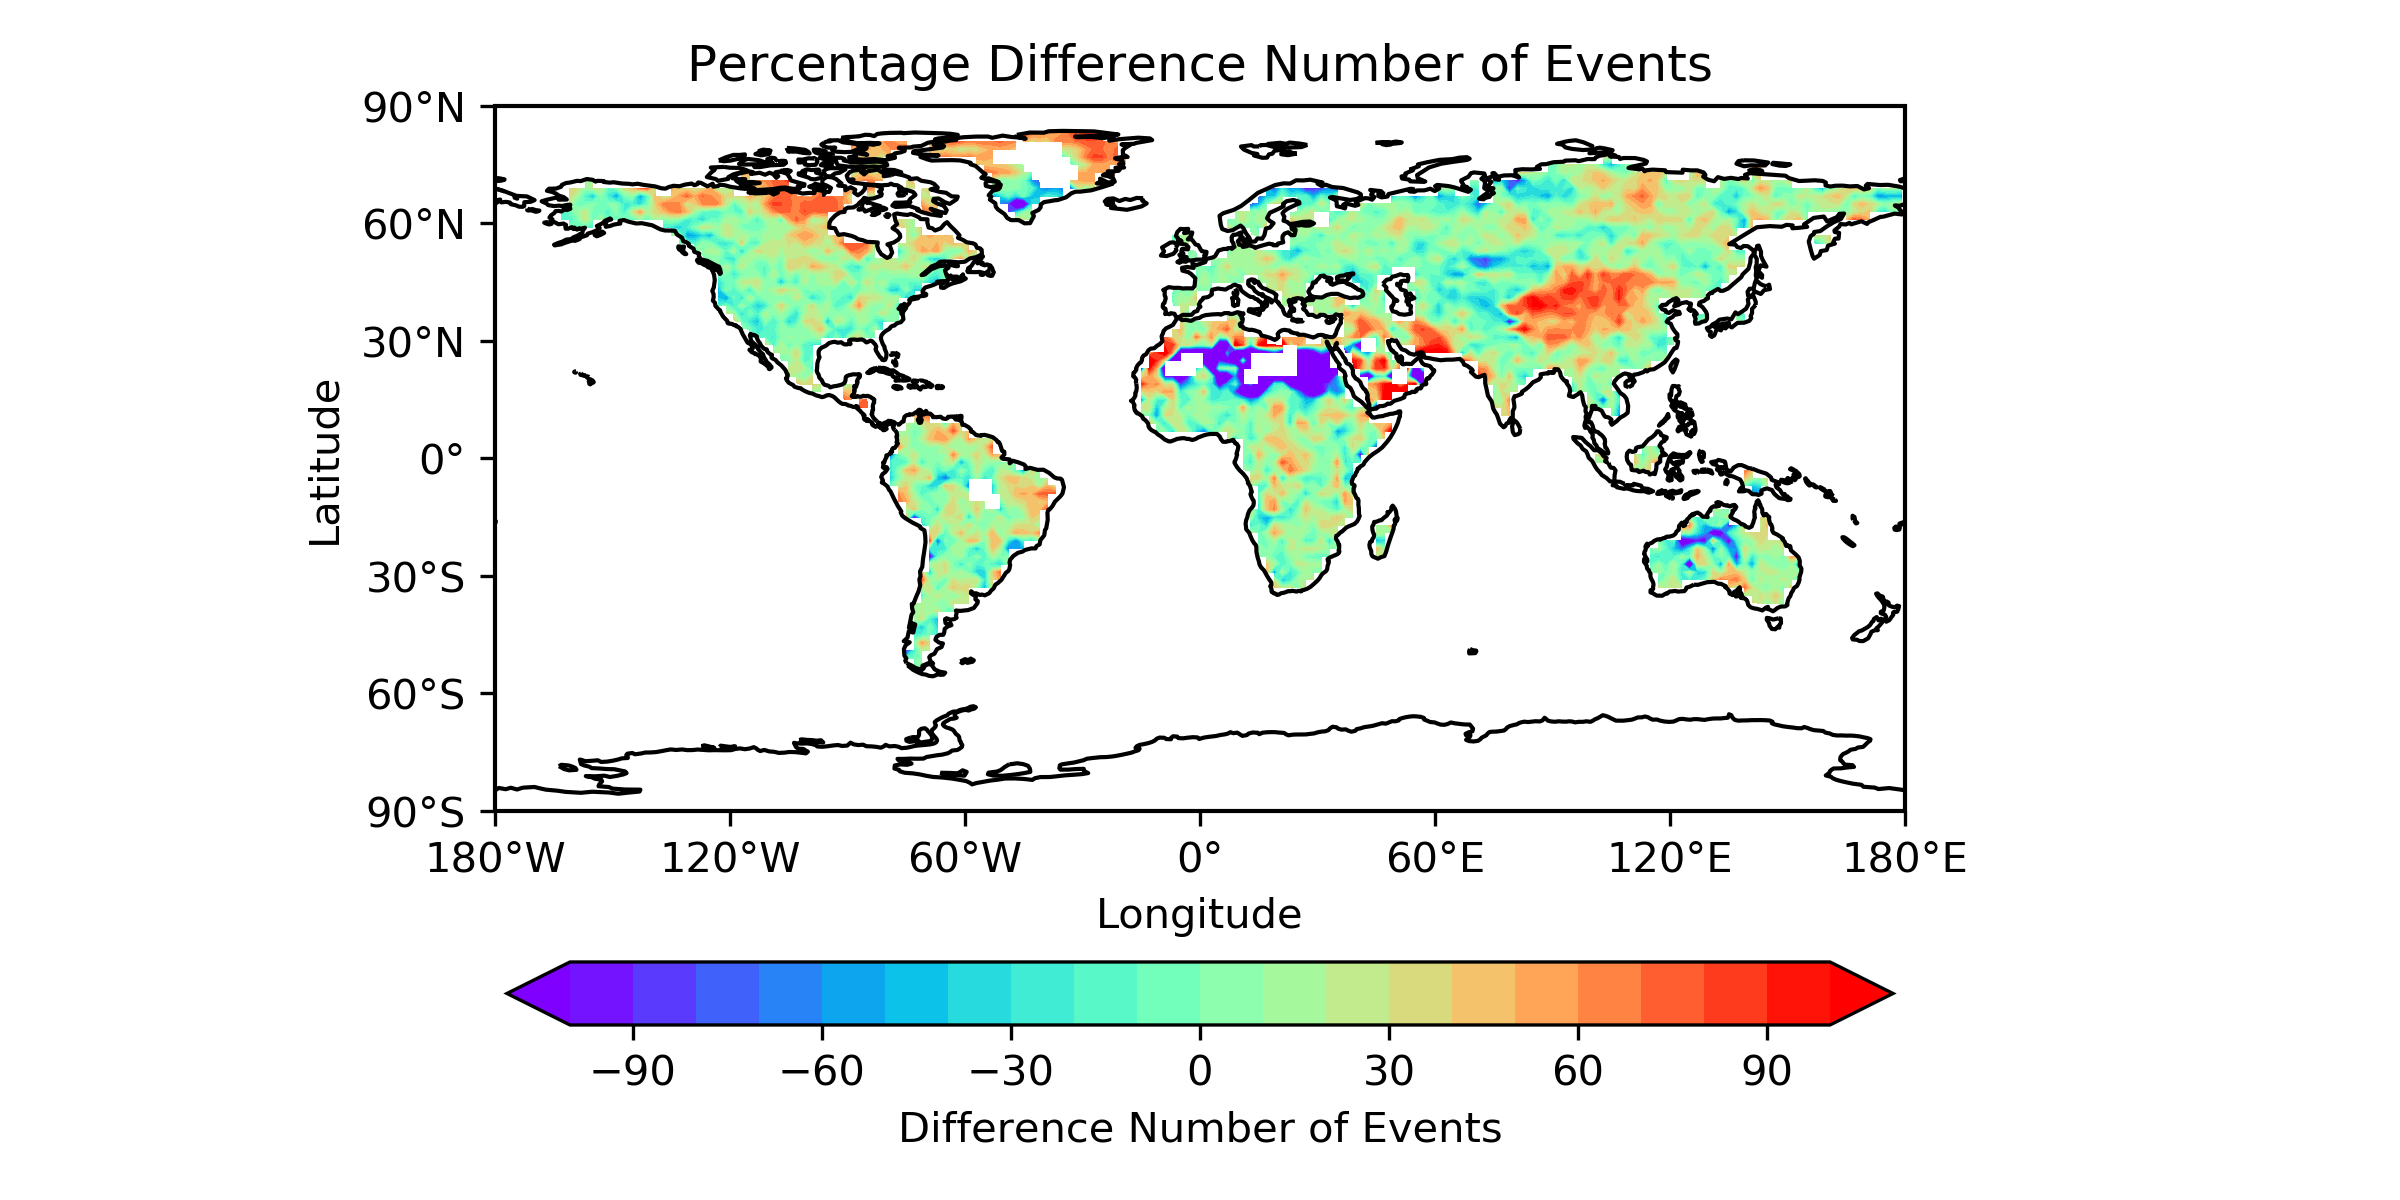
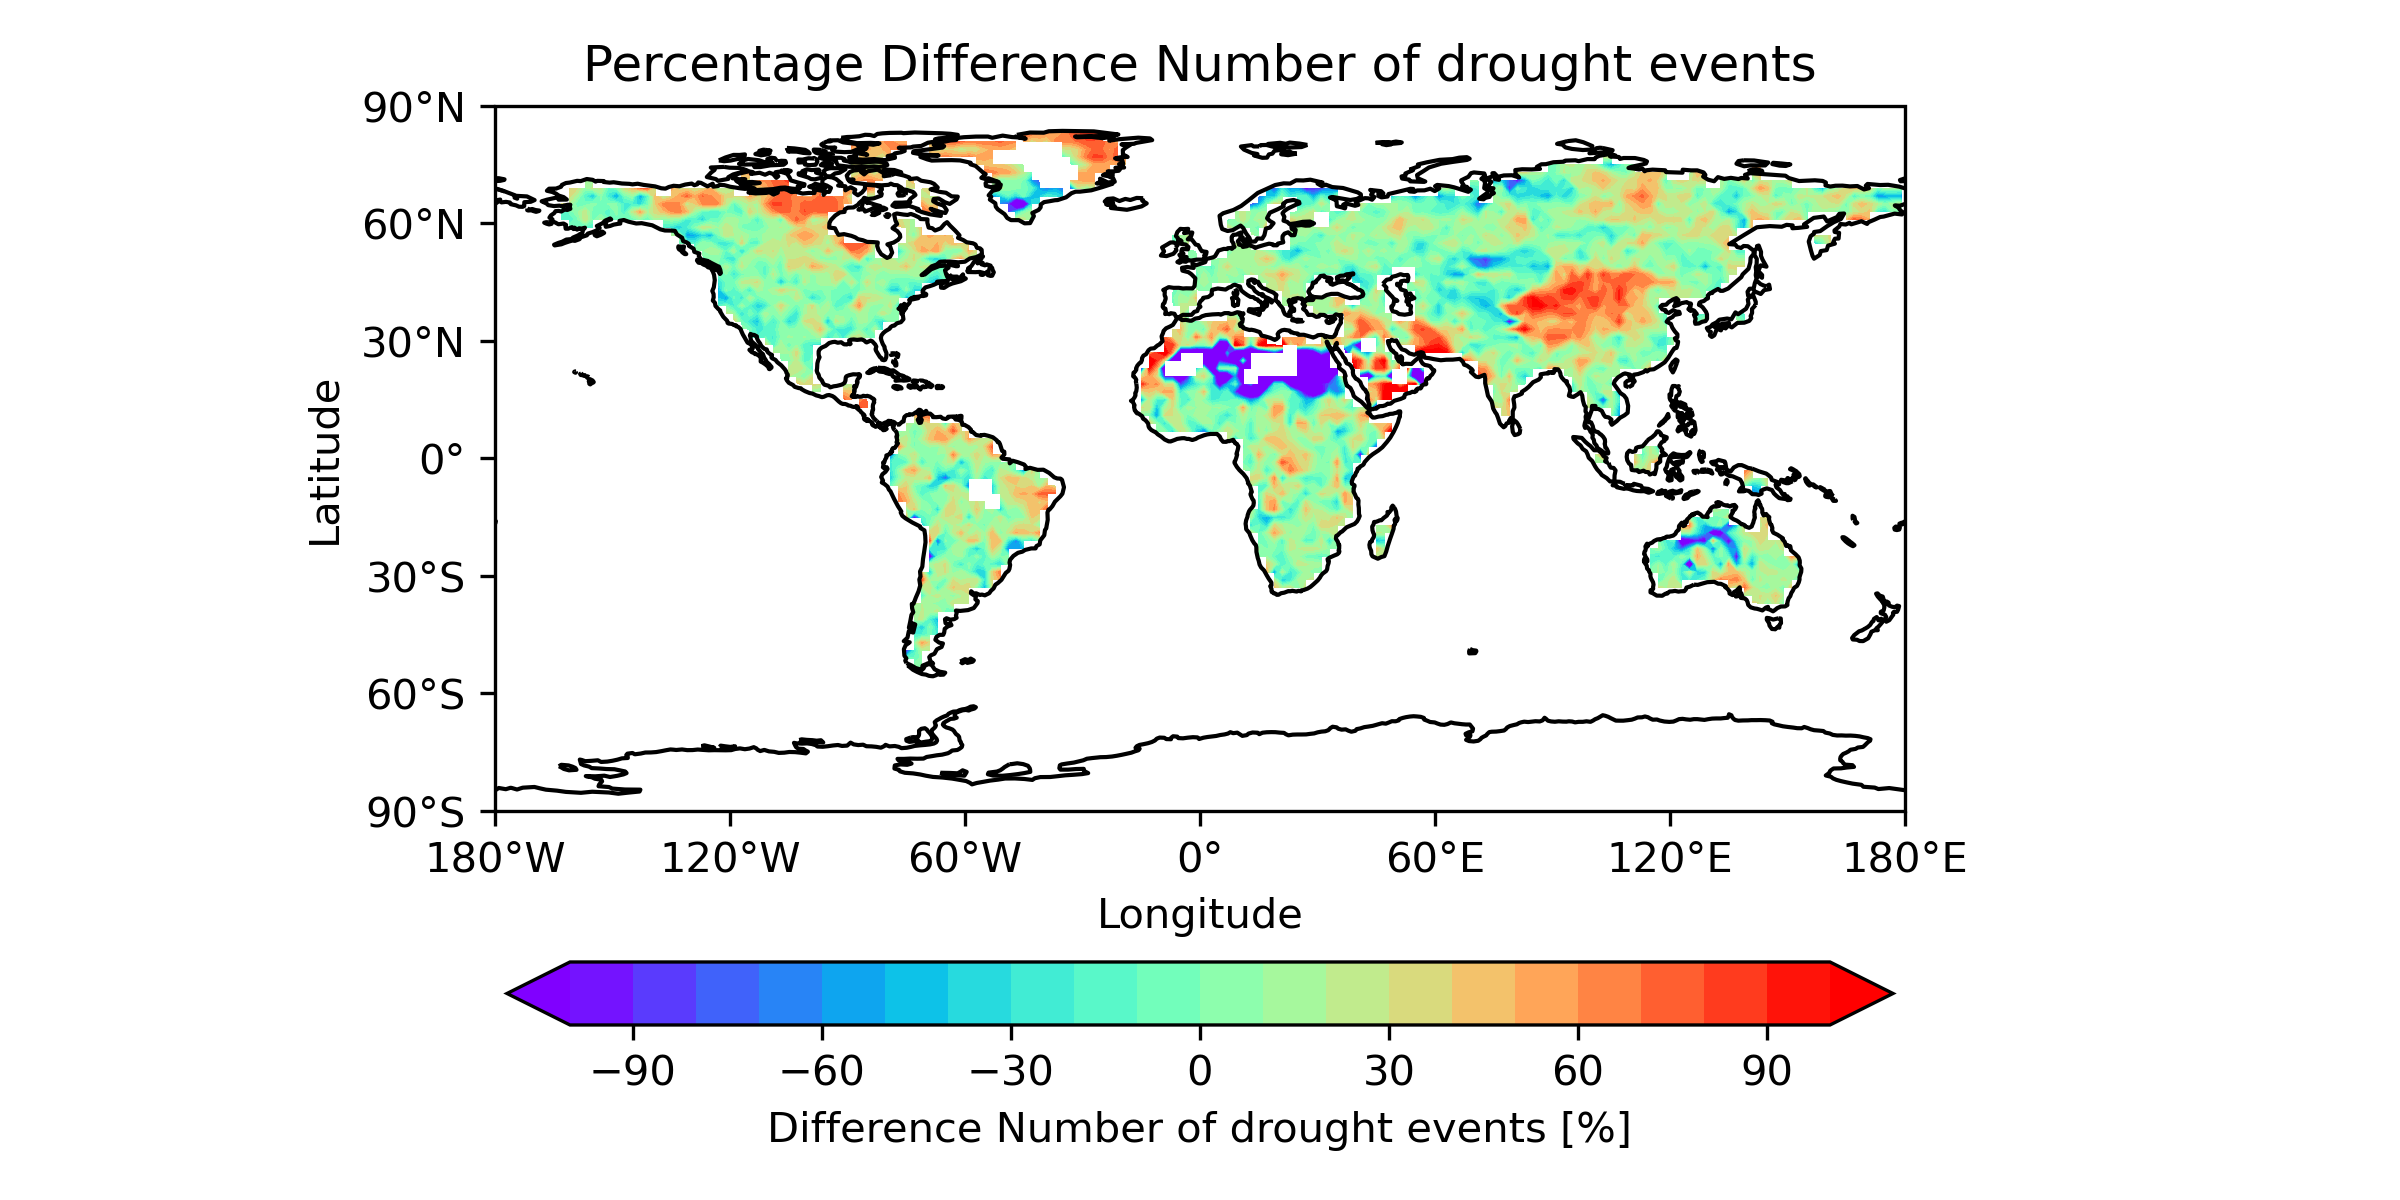
Update plot title martin18grl (#2080)
* Update figure and color bar title for percentage difference plots.

* Update for figures in documentation.

Changed region(s): [[0.25, 0.0308, 0.75, 0.0925], [0.3125, 0.925, 0.6875, 0.9558], [0.5, 0.74, 0.5312, 0.7708]]

diff --git a/esmvaltool/diag_scripts/droughtindex/collect_drought_func.py b/esmvaltool/diag_scripts/droughtindex/collect_drought_func.py
@@ -252,7 +252,7 @@ def _plot_multi_model_maps(cfg, all_drought_mean, lats_lons, input_filenames,
         data_dict.update({'data': all_drought_mean[:, :, 0],
                           'var': 'diffnumber',
                           'datasetname': 'Percentage',
-                          'drought_char': 'Number of Events',
+                          'drought_char': 'Number of drought events',
                           'unit': '%',
                           'filename': 'Percentage_difference_of_No_of_Events',
                           'drought_numbers_level': np.arange(-100, 110, 10)})
@@ -261,7 +261,7 @@ def _plot_multi_model_maps(cfg, all_drought_mean, lats_lons, input_filenames,
 
         data_dict.update({'data': all_drought_mean[:, :, 1],
                           'var': 'diffduration',
-                          'drought_char': 'Duration of Events',
+                          'drought_char': 'Duration of drought events',
                           'filename': 'Percentage_difference_of_Dur_of_Events',
                           'drought_numbers_level': np.arange(-100, 110, 10)})
         plot_map_spei_multi(cfg, data_dict, input_filenames,
@@ -269,7 +269,7 @@ def _plot_multi_model_maps(cfg, all_drought_mean, lats_lons, input_filenames,
 
         data_dict.update({'data': all_drought_mean[:, :, 2],
                           'var': 'diffseverity',
-                          'drought_char': 'Severity Index of Events [%]',
+                          'drought_char': 'Severity Index of drought events',
                           'filename': 'Percentage_difference_of_Sev_of_Events',
                           'drought_numbers_level': np.arange(-50, 60, 10)})
         plot_map_spei_multi(cfg, data_dict, input_filenames,
@@ -278,7 +278,7 @@ def _plot_multi_model_maps(cfg, all_drought_mean, lats_lons, input_filenames,
         data_dict.update({'data': all_drought_mean[:, :, 3],
                           'var': 'diff' + (cfg['indexname']).lower(),
                           'drought_char': 'Average ' + cfg['indexname'] +
-                                          ' of Events',
+                                          ' of drought events',
                           'filename': 'Percentage_difference_of_Avr_of_Events',
                           'drought_numbers_level': np.arange(-50, 60, 10)})
         plot_map_spei_multi(cfg, data_dict, input_filenames,
@@ -287,7 +287,7 @@ def _plot_multi_model_maps(cfg, all_drought_mean, lats_lons, input_filenames,
         data_dict.update({'data': all_drought_mean[:, :, 0],
                           'var': 'frequency',
                           'unit': 'year-1',
-                          'drought_char': 'Number of Events per year',
+                          'drought_char': 'Number of drought events per year',
                           'filename': tstype + '_No_of_Events_per_year',
                           'drought_numbers_level': np.arange(0, 0.4, 0.05)})
         if tstype == 'Observations':
@@ -300,7 +300,7 @@ def _plot_multi_model_maps(cfg, all_drought_mean, lats_lons, input_filenames,
         data_dict.update({'data': all_drought_mean[:, :, 1],
                           'var': 'duration',
                           'unit': 'month',
-                          'drought_char': 'Duration of Events [month]',
+                          'drought_char': 'Duration of drought events [month]',
                           'filename': tstype + '_Dur_of_Events',
                           'drought_numbers_level': np.arange(0, 6, 1)})
         plot_map_spei_multi(cfg, data_dict, input_filenames,
@@ -309,12 +309,12 @@ def _plot_multi_model_maps(cfg, all_drought_mean, lats_lons, input_filenames,
         data_dict.update({'data': all_drought_mean[:, :, 2],
                           'var': 'severity',
                           'unit': '1',
-                          'drought_char': 'Severity Index of Events',
+                          'drought_char': 'Severity Index of drought events',
                           'filename': tstype + '_Sev_index_of_Events',
                           'drought_numbers_level': np.arange(0, 9, 1)})
         plot_map_spei_multi(cfg, data_dict, input_filenames,
                             colormap='gnuplot')
-        namehlp = 'Average ' + cfg['indexname'] + ' of Events'
+        namehlp = 'Average ' + cfg['indexname'] + ' of drought events'
         namehlp2 = tstype + '_Average_' + cfg['indexname'] + '_of_Events'
         data_dict.update({'data': all_drought_mean[:, :, 3],
                           'var': (cfg['indexname']).lower(),
@@ -330,10 +330,10 @@ def _plot_single_maps(cfg, cube2, drought_show, tstype, input_filenames):
     """Plot map of drought characteristics for individual models and times."""
     cube2.data = drought_show.data[:, :, 0]
     name_dict = {'add_to_filename': tstype + '_No_of_Events_per_year',
-                 'name': tstype + ' Number of Events per year',
+                 'name': tstype + ' Number of drought events per year',
                  'var': 'frequency',
                  'unit': 'year-1',
-                 'drought_char': 'Number of Events per year',
+                 'drought_char': 'Number of drought events per year',
                  'input_filenames': input_filenames}
     plot_map_spei(cfg, cube2, np.arange(0, 0.4, 0.05),
                   name_dict)
@@ -341,20 +341,20 @@ def _plot_single_maps(cfg, cube2, drought_show, tstype, input_filenames):
     # plot the average duration of drought events
     cube2.data = drought_show.data[:, :, 1]
     name_dict.update({'add_to_filename': tstype + '_Dur_of_Events',
-                      'name': tstype + ' Duration of Events(month)',
+                      'name': tstype + ' Duration of drought events(month)',
                       'var': 'duration',
                       'unit': 'month',
-                      'drought_char': 'Number of Events per year',
+                      'drought_char': 'Number of drought events per year',
                       'input_filenames': input_filenames})
     plot_map_spei(cfg, cube2, np.arange(0, 6, 1), name_dict)
 
     # plot the average severity index of drought events
     cube2.data = drought_show.data[:, :, 2]
     name_dict.update({'add_to_filename': tstype + '_Sev_index_of_Events',
-                      'name': tstype + ' Severity Index of Events',
+                      'name': tstype + ' Severity Index of drought events',
                       'var': 'severity',
                       'unit': '1',
-                      'drought_char': 'Number of Events per year',
+                      'drought_char': 'Number of drought events per year',
                       'input_filenames': input_filenames})
     plot_map_spei(cfg, cube2, np.arange(0, 9, 1), name_dict)
 
@@ -367,7 +367,7 @@ def _plot_single_maps(cfg, cube2, drought_show, tstype, input_filenames):
                       'name': namehlp2,
                       'var': 'severity',
                       'unit': '1',
-                      'drought_char': 'Number of Events per year',
+                      'drought_char': 'Number of drought events per year',
                       'input_filenames': input_filenames})
     plot_map_spei(cfg, cube2, np.arange(-2.8, -1.8, 0.2), name_dict)
 
@@ -480,7 +480,12 @@ def plot_map_spei_multi(cfg, data_dict, input_filenames, colormap='jet'):
     cbar = fig.colorbar(cnplot, ax=axx, shrink=0.6, orientation='horizontal')
 
     # Add colorbar title string
-    cbar.set_label(data_dict['model_kind'] + ' ' + data_dict['drought_char'])
+    if data_dict['model_kind'] == 'Difference':
+        cbar.set_label(data_dict['model_kind'] + ' '
+                       + data_dict['drought_char'] + ' [%]')
+    else:
+        cbar.set_label(data_dict['model_kind'] + ' '
+                       + data_dict['drought_char'])
 
     # Set labels and title to each plot
     axx.set_xlabel('Longitude')
